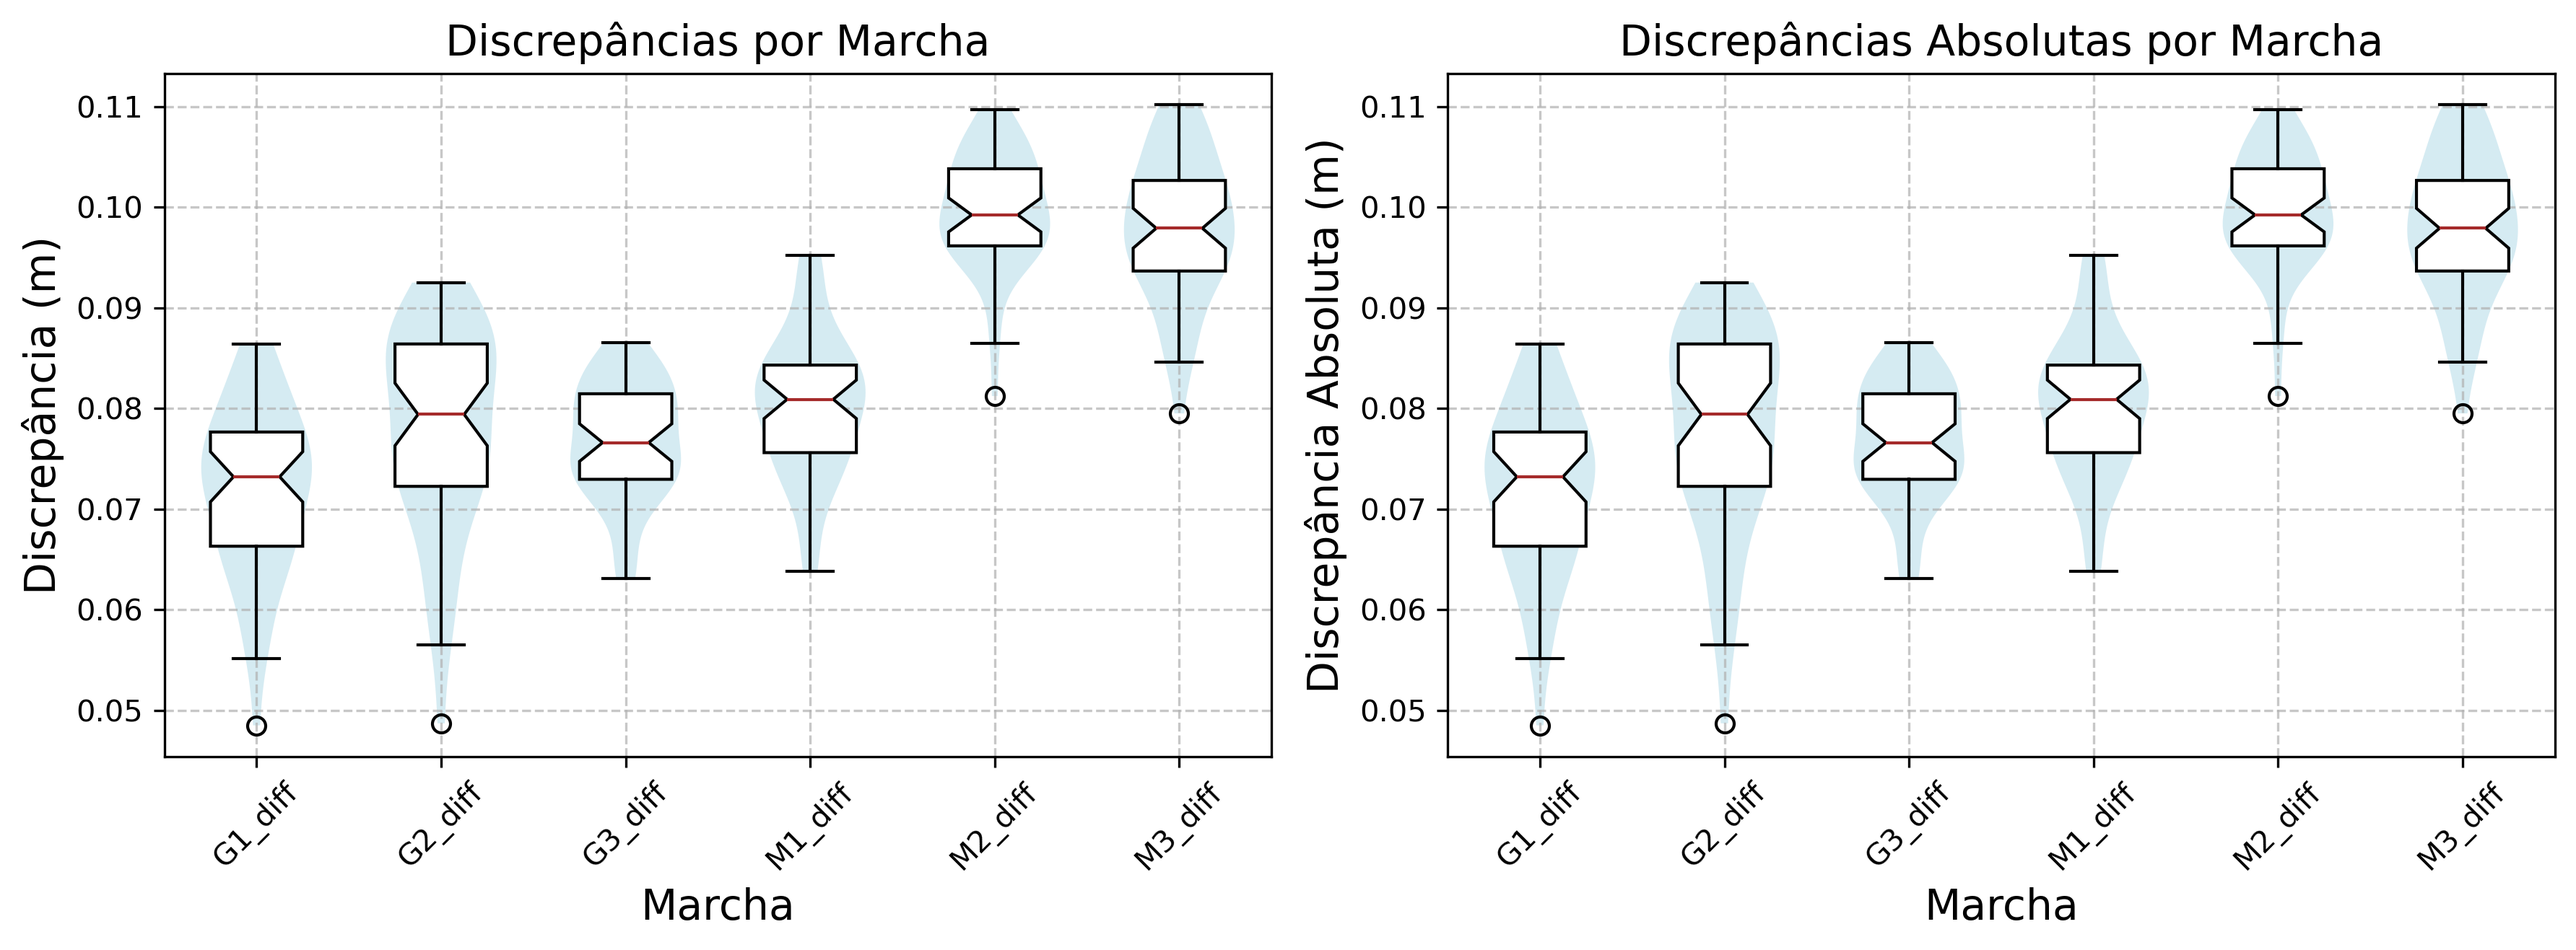
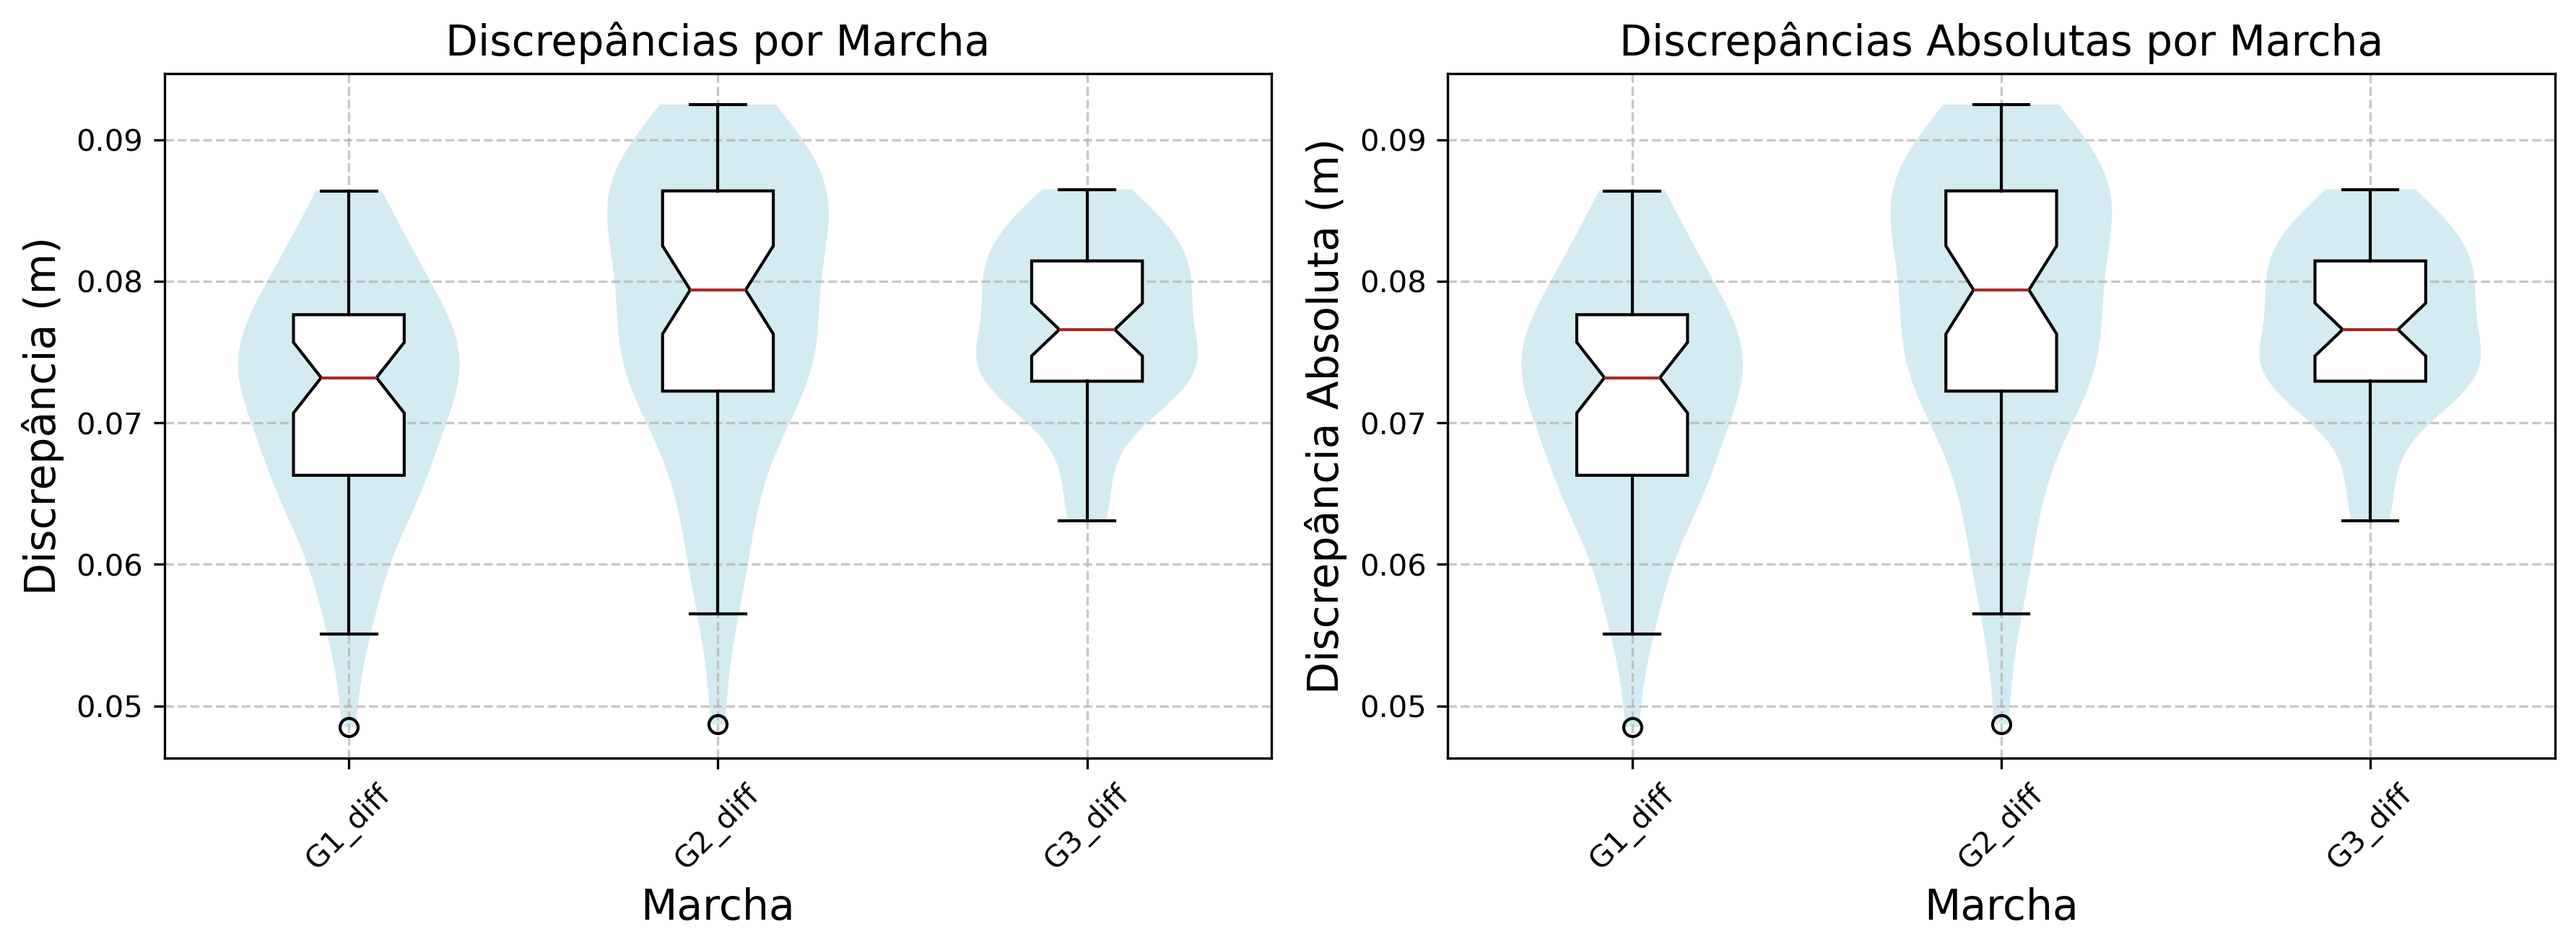
Analise G1xG2xG3
Remanejamento do código para analise dos dados para G1xG2xG3. (Guidão1 x Guidão2 x Guidão 3)

diff --git a/STATS_V2.py b/STATS_V2.py
@@ -36,17 +36,14 @@ for nome_sheet, df_alti in df_alti.items():
     df_dict = pd.read_excel(file_path, sheet_name=None)
 
     for nome_sheet, df_alti in df_dict.items():
-        df_alti.columns = ['PT', 'NIV', 'G1', 'G2', 'G3', 'M1', 'M2', 'M3']
+        df_alti.columns = ['PT', 'NIV', 'G1', 'G2', 'G3']
 
     # Tratamentos (colunas a partir da terceira: V1, V2, V3, ...)
-    trats = ['G1','G2','G3','M1','M2','M3']
+    trats = ['G1','G2','G3']
     const_column = {
         "G1": 1.407,
         "G2": 1.407,
         "G3": 1.407,
-        "M1": 1.890,
-        "M2": 1.862,
-        "M3": 1.880
     }     
 
     # DataFrame das diferenças
